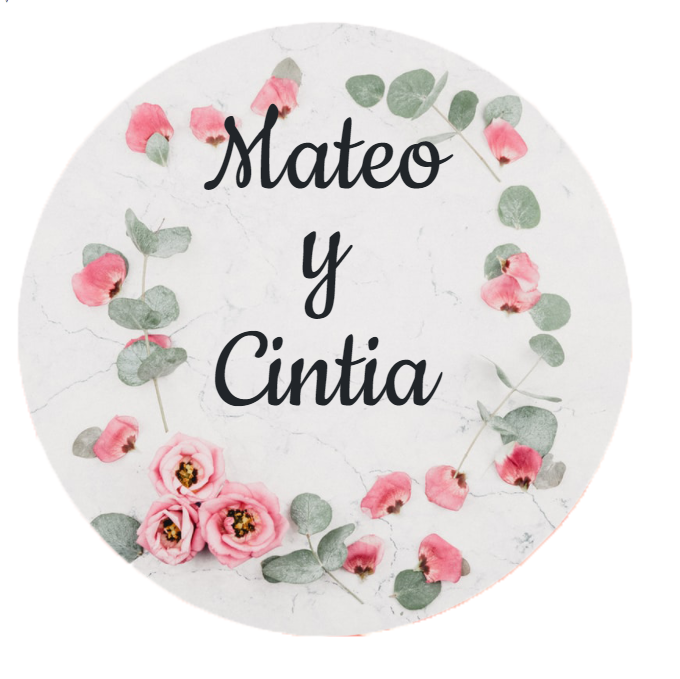
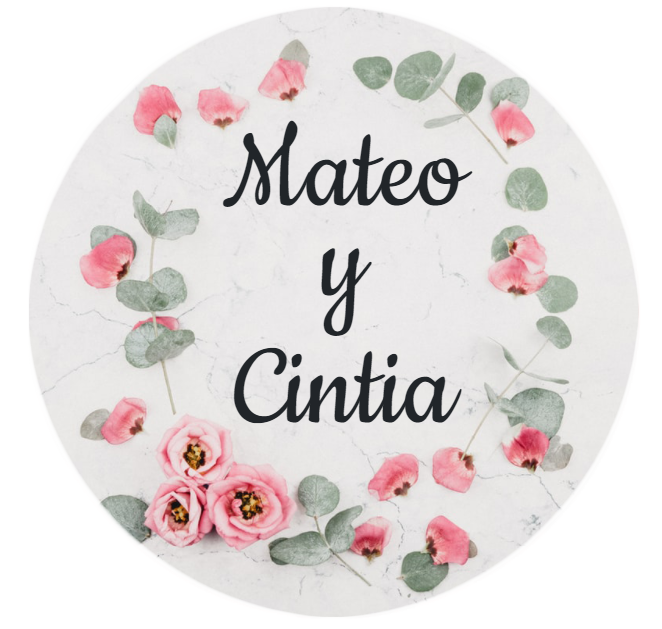
design intro

diff --git a/prueba.html b/prueba.html
@@ -24,12 +24,12 @@
     -->
     <div id="contenedor-1">
         <div id="c-img" class="text-center m-auto">
-            <img src="img/marmoltext2.png" id="c-img" alt="portada">
-            <!--
+            <img src="img/coverheartmarmol.png" id="c-img" alt="portada">
+
             <div id="c-text" class="text-center mx-auto mb-5">
-                <p class="text-more-big mb-5 text-light">Mateo</p>
-                <p class="text-more-big-2 text-light">y</p>
-                <p class="text-more-big mb-5 text-light">Cintia</p>
+                <p class="text-more-big mb-5">Mateo</p>
+                <p class="text-more-big-2">y</p>
+                <p class="text-more-big mb-5">Cintia</p>
             </div>
             -->
         </div>

diff --git a/index.html b/index.html
@@ -23,8 +23,8 @@
         <div class="container">
             <div class="row">
                 <div class="col text-center">
-                    <img src="img/marmoltext.png" id="c-img" class="img-fluid" alt="portada">
-                    <a id="button-intro" class="btn btn-danger" onclick="continuar()" href="#" role="button">INGRESAR</a>
+                    <img src="img/marmoltext2.png" id="c-img" class="img-fluid" alt="portada">
+                    <a id="button-intro" class="btn btn-warning" onclick="continuar()" href="#" role="button">INGRESAR</a>
                 </div>
             </div>
         </div>

diff --git a/estilosprueba.css b/estilosprueba.css
@@ -38,6 +38,7 @@ html, body{
 #c-text{
     position: absolute;
     font-family: 'Cookie', cursive;
+    margin-top: 70px !important;
     
 }
 a{
